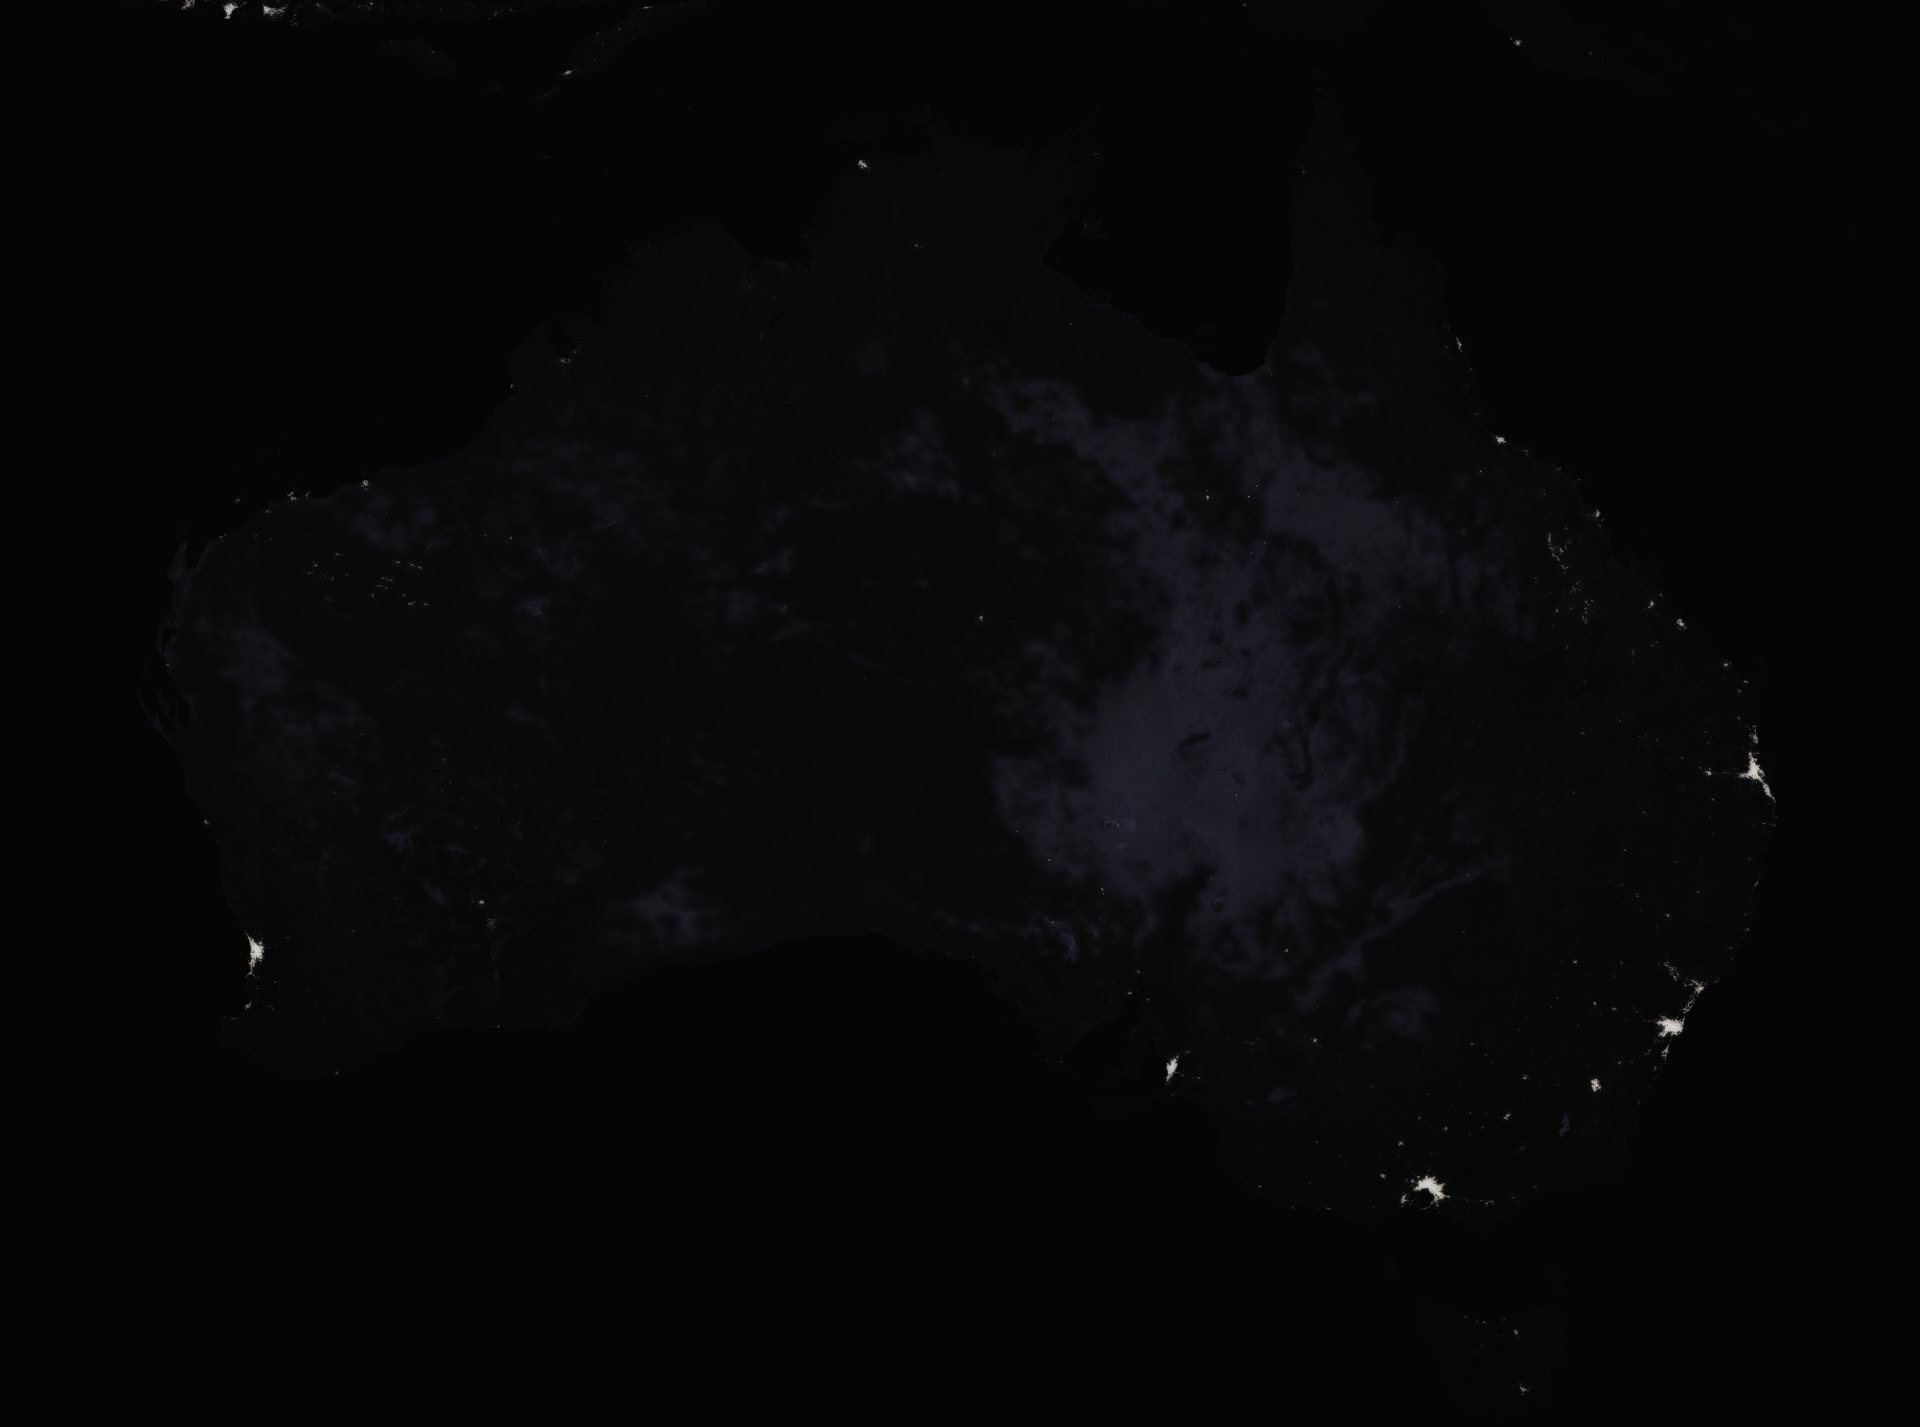
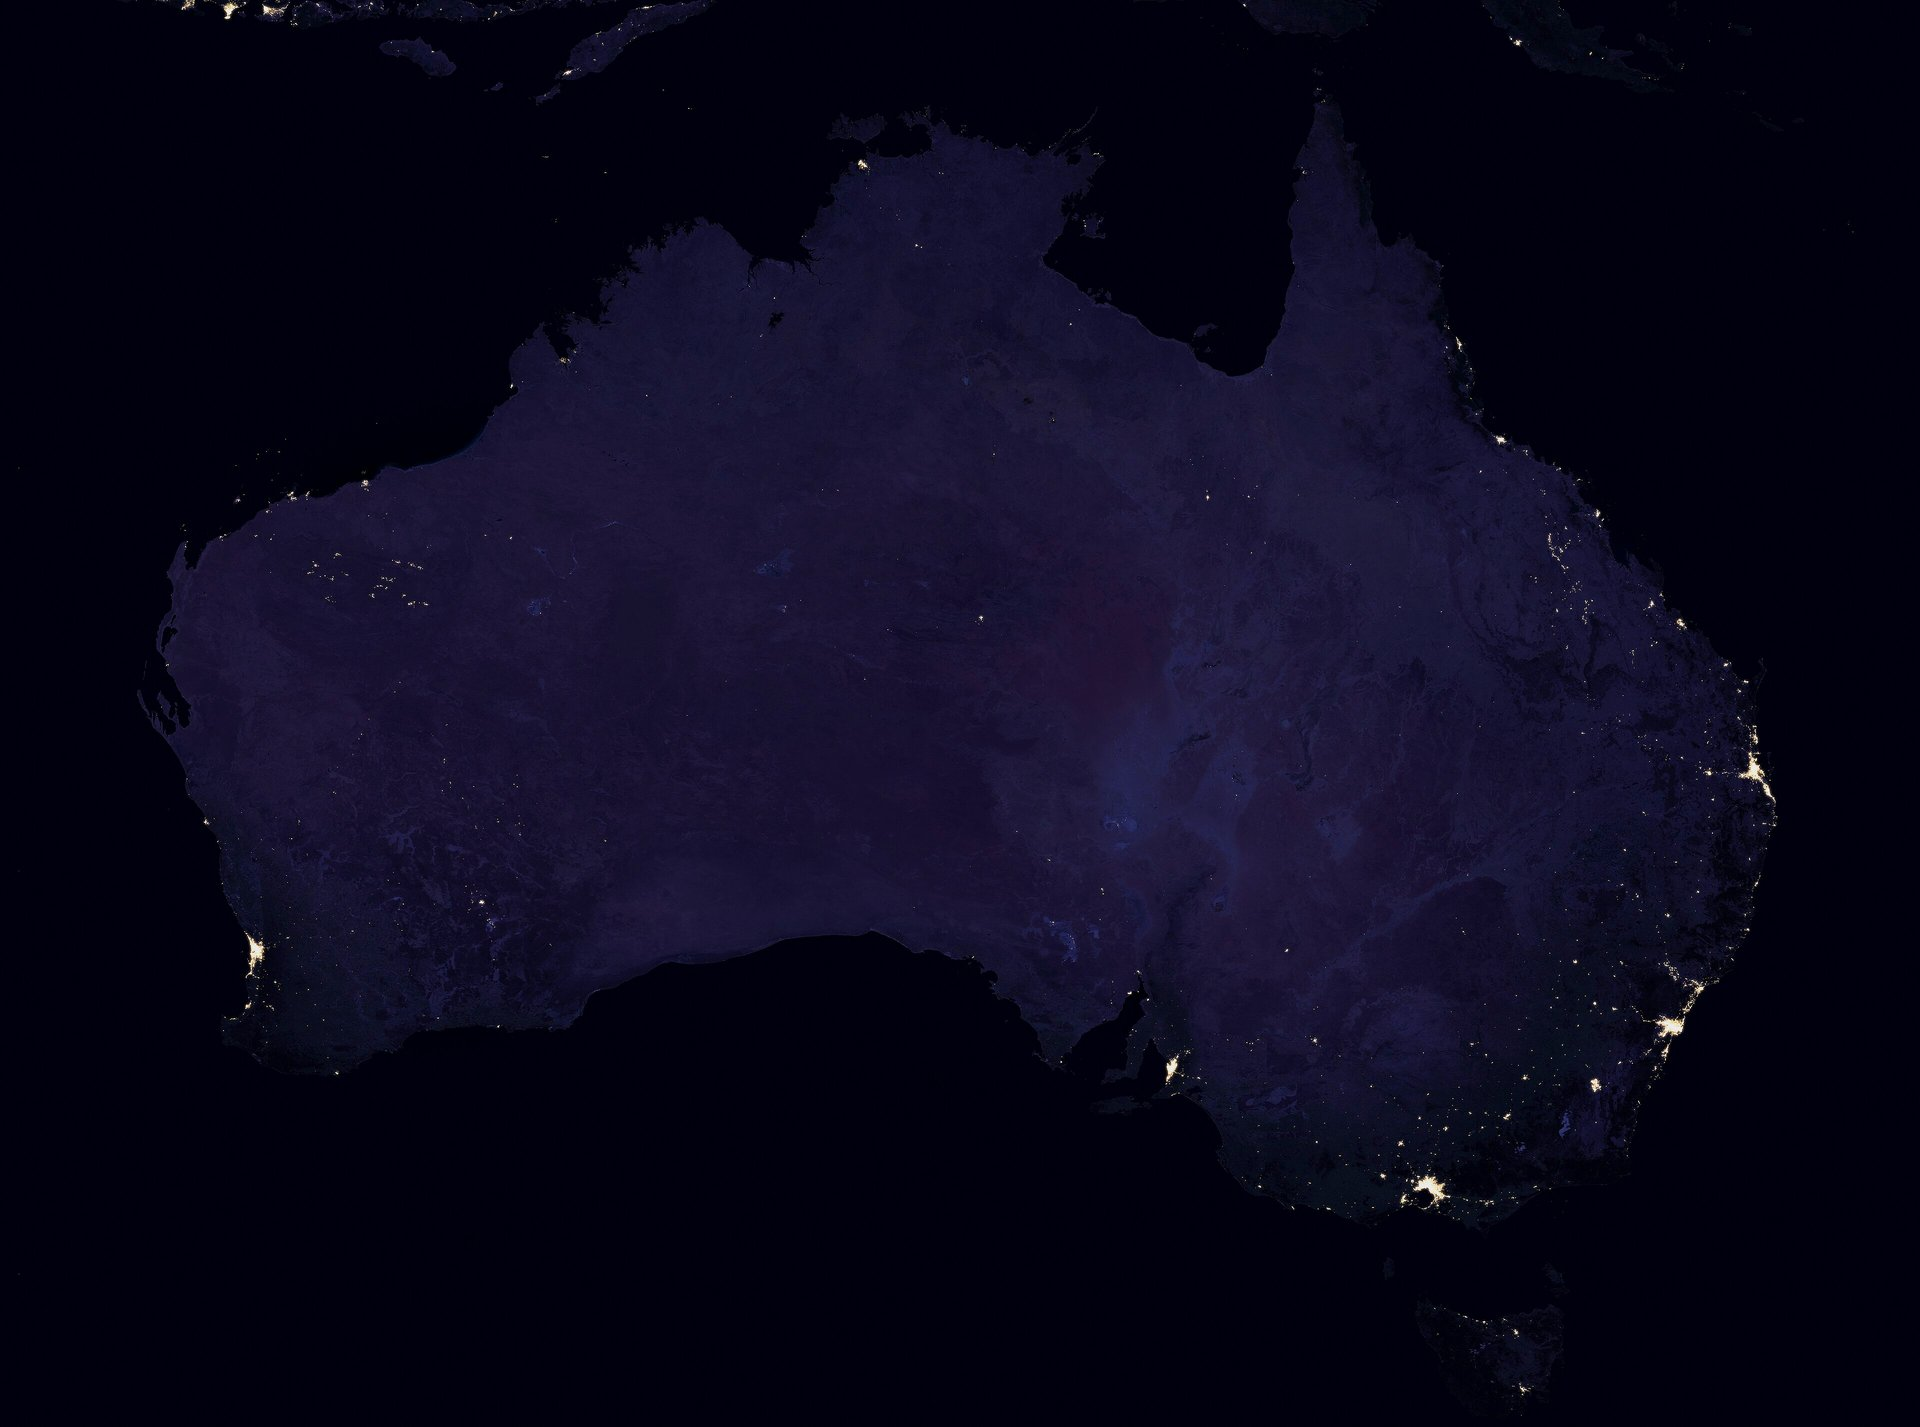
Cinematic night: NASA Black Marble full-bleed.
The Zombie desat made the door gloomy. City lights are the sci-fi. Appin stays below the fold. Sitting line unchanged. No toys. No lyrics.

diff --git a/index.html b/index.html
@@ -19,7 +19,7 @@
 <meta name="twitter:description" content="TerAustralis Incognita: a Southern Hemisphere terrestrial node and the CrystalCore intelligence layer, proposed for multiplanetary continuity.">
 <meta name="twitter:image" content="https://proposal.teraustralis.com.au/images/map-australia-night.jpg">
 </head>
-<body>
+<body class="home">
 
 <nav>
   <div class="wrap">
@@ -34,21 +34,24 @@
   </div>
 </nav>
 
-<header class="hero">
+<header class="hero-cinema">
+  <div class="hero-media" aria-hidden="true">
+    <img src="images/hero-black-marble.jpg" alt="">
+  </div>
+  <div class="hero-veil"></div>
+  <div class="hero-grain" aria-hidden="true"></div>
   <div class="wrap">
     <div class="eyebrow">Formal proposal & vision</div>
     <h1>The Unknown Southern Land,<br><em>awakened for a multiplanetary age.</em></h1>
     <p class="lede">A Southern Hemisphere terrestrial node for recovery, feedstock, and energy — coupled with CrystalCore, a local-first intelligence layer built for the real constraints of distance.</p>
     <p class="hero-mantra">The sitting is the work.</p>
+    <div class="cta">
+      <a class="button" href="review.html">Read the Review Pack</a>
+      <a class="button ghost" href="sydney-station.html">Sydney Station</a>
+    </div>
   </div>
+  <a class="scroll-cue" href="#south">The south</a>
 </header>
-
-<div class="wrap">
-  <figure class="map-plate hero-plate">
-    <img src="images/map-australia-night.jpg" alt="Australia at night — city lights on a dark continent. NASA Black Marble, Suomi NPP VIIRS, 2016 composite.">
-    <figcaption>The map. NASA Black Marble 2016 — Suomi NPP VIIRS. Public domain. Belt: science. Desaturated. Interior unlit. Not a war clip. Not a facility. Not a film still.</figcaption>
-  </figure>
-</div>
 
 <section id="south">
   <div class="wrap">
@@ -58,7 +61,7 @@
     <p>That instinct is worth taking seriously again, at a different scale. A civilisation reaching for more than one world has the same problem the old maps had: everything is concentrated at the top, and the bottom is a blank that someone assumes will sort itself out. The blank is where the redundancy has to go.</p>
     <p>A night survey lights the coasts. The interior, and the people who were here first, do not show as gold. They are not a blank. Free, Prior and Informed Consent stays above the legal minimum — a standard, not a chorus.</p>
     <p>Appin, Wollondilly, is one named place on that map — Dharawal country, Cataract Gorge. On 17 April 1816 a camp was raided by the 46th Regiment; at least fourteen people were killed. The site was added to the NSW Heritage Register in 2022. On 24 July 1979 fourteen men died in the Appin colliery methane explosion. Aerotropolis West sits in the same south-west basin. That is not one nation claimed for the whole of Western Sydney, and it is not a site selection. It is why the unlit interior is not treated as empty, and why the dead are not a hook.</p>
-    <p class="source-link">Map: NASA Black Marble 2016 (Suomi NPP VIIRS). Public domain. Credit: NASA Earth Observatory / Joshua Stevens, VIIRS data Miguel Román, NASA GSFC. Presentation: 1994, desaturated. Interior left unlit. No cities added. This is not a costume. The dead are not a hook. The map is tonight.</p>
+    <p class="source-link">Map: NASA Black Marble 2016 (Suomi NPP VIIRS). Public domain. Credit: NASA Earth Observatory / Joshua Stevens, VIIRS data Miguel Román, NASA GSFC. Opening night: NASA Black Marble 2016. City lights as they are. Interior unlit because it is unlit. No cities added. Credit: NASA Earth Observatory / Joshua Stevens, VIIRS data Miguel Román, NASA GSFC.</p>
   </div>
 </section>
 

diff --git a/styles.css b/styles.css
@@ -673,3 +673,134 @@ footer .rights {
   margin: 20px 0 0;
 }
 .map-plate { box-shadow: 0 10px 34px rgba(0, 0, 0, 0.45); }
+
+body.home { overflow-x: hidden; }
+body.home nav {
+  position: sticky;
+  background: rgba(6, 8, 14, 0.45);
+  border-bottom: 1px solid rgba(232, 212, 168, 0.12);
+  backdrop-filter: blur(14px) saturate(1.1);
+}
+body.home nav .brand,
+body.home nav .links a { color: var(--ember); text-shadow: 0 1px 10px rgba(0,0,0,0.55); }
+body.home nav .links a:hover { color: var(--dust); }
+
+.hero-cinema {
+  position: relative;
+  min-height: 100svh;
+  display: flex;
+  align-items: flex-end;
+  padding: 0 0 80px;
+  isolation: isolate;
+}
+.hero-media {
+  position: absolute;
+  inset: 0;
+  z-index: 0;
+  overflow: hidden;
+  background: #05060a;
+}
+.hero-media img {
+  width: 100%;
+  height: 100%;
+  object-fit: cover;
+  object-position: 48% 40%;
+  transform: scale(1.06);
+  animation: night-drift 48s ease-in-out infinite alternate;
+  filter: contrast(1.08) saturate(1.05);
+}
+.hero-veil {
+  position: absolute;
+  inset: 0;
+  z-index: 1;
+  pointer-events: none;
+  background:
+    linear-gradient(180deg, rgba(5,6,10,0.35) 0%, rgba(5,6,10,0.08) 38%, rgba(5,6,10,0.55) 72%, #0b0c10 100%),
+    radial-gradient(ellipse 70% 50% at 50% 80%, rgba(212, 184, 106, 0.08), transparent 60%);
+}
+.hero-grain {
+  position: absolute;
+  inset: 0;
+  z-index: 2;
+  pointer-events: none;
+  opacity: 0.08;
+  mix-blend-mode: overlay;
+  background-image: url("images/grain.png");
+  background-size: 160px 160px;
+}
+.hero-cinema .wrap {
+  position: relative;
+  z-index: 3;
+  padding-bottom: 8px;
+}
+.hero-cinema .eyebrow {
+  font-family: var(--font-ui);
+  text-transform: uppercase;
+  letter-spacing: 0.38em;
+  font-size: 0.68rem;
+  font-weight: 700;
+  color: var(--dust);
+  margin-bottom: 18px;
+}
+.hero-cinema h1 {
+  font-size: clamp(2.6rem, 7vw, 5.4rem);
+  margin: 0 0 18px;
+  font-weight: 400;
+  line-height: 0.98;
+  color: var(--ember);
+  text-wrap: balance;
+  text-shadow: 0 2px 32px rgba(0,0,0,0.65);
+  max-width: 18ch;
+}
+.hero-cinema h1 em {
+  font-style: italic;
+  color: var(--dust);
+}
+.hero-cinema .lede {
+  font-size: 1.15rem;
+  color: var(--star-dim);
+  max-width: 38rem;
+  margin: 0 0 22px;
+}
+.hero-cinema .hero-mantra {
+  margin: 0 0 28px;
+  color: var(--dust);
+  text-shadow: 0 1px 12px rgba(0,0,0,0.6);
+}
+.hero-cinema .cta {
+  text-align: left;
+  padding: 0;
+}
+.scroll-cue {
+  position: absolute;
+  z-index: 3;
+  left: 50%;
+  bottom: 22px;
+  transform: translateX(-50%);
+  font-family: var(--font-ui);
+  font-size: 0.62rem;
+  letter-spacing: 0.28em;
+  text-transform: uppercase;
+  color: var(--star-faint);
+  text-decoration: none;
+}
+.scroll-cue::after {
+  content: "";
+  display: block;
+  width: 1px;
+  height: 28px;
+  margin: 8px auto 0;
+  background: linear-gradient(180deg, var(--dust), transparent);
+}
+@keyframes night-drift {
+  from { transform: scale(1.06) translate3d(0, 0, 0); }
+  to   { transform: scale(1.12) translate3d(-1.6%, 1%, 0); }
+}
+@media (prefers-reduced-motion: reduce) {
+  .hero-media img { animation: none; }
+}
+@media (max-width: 560px) {
+  .hero-cinema { min-height: 92svh; padding-bottom: 96px; }
+  .hero-cinema h1 { font-size: clamp(2.2rem, 12vw, 3.1rem); }
+  .hero-cinema .cta a.button { display: block; text-align: center; margin: 0 0 10px; }
+}
